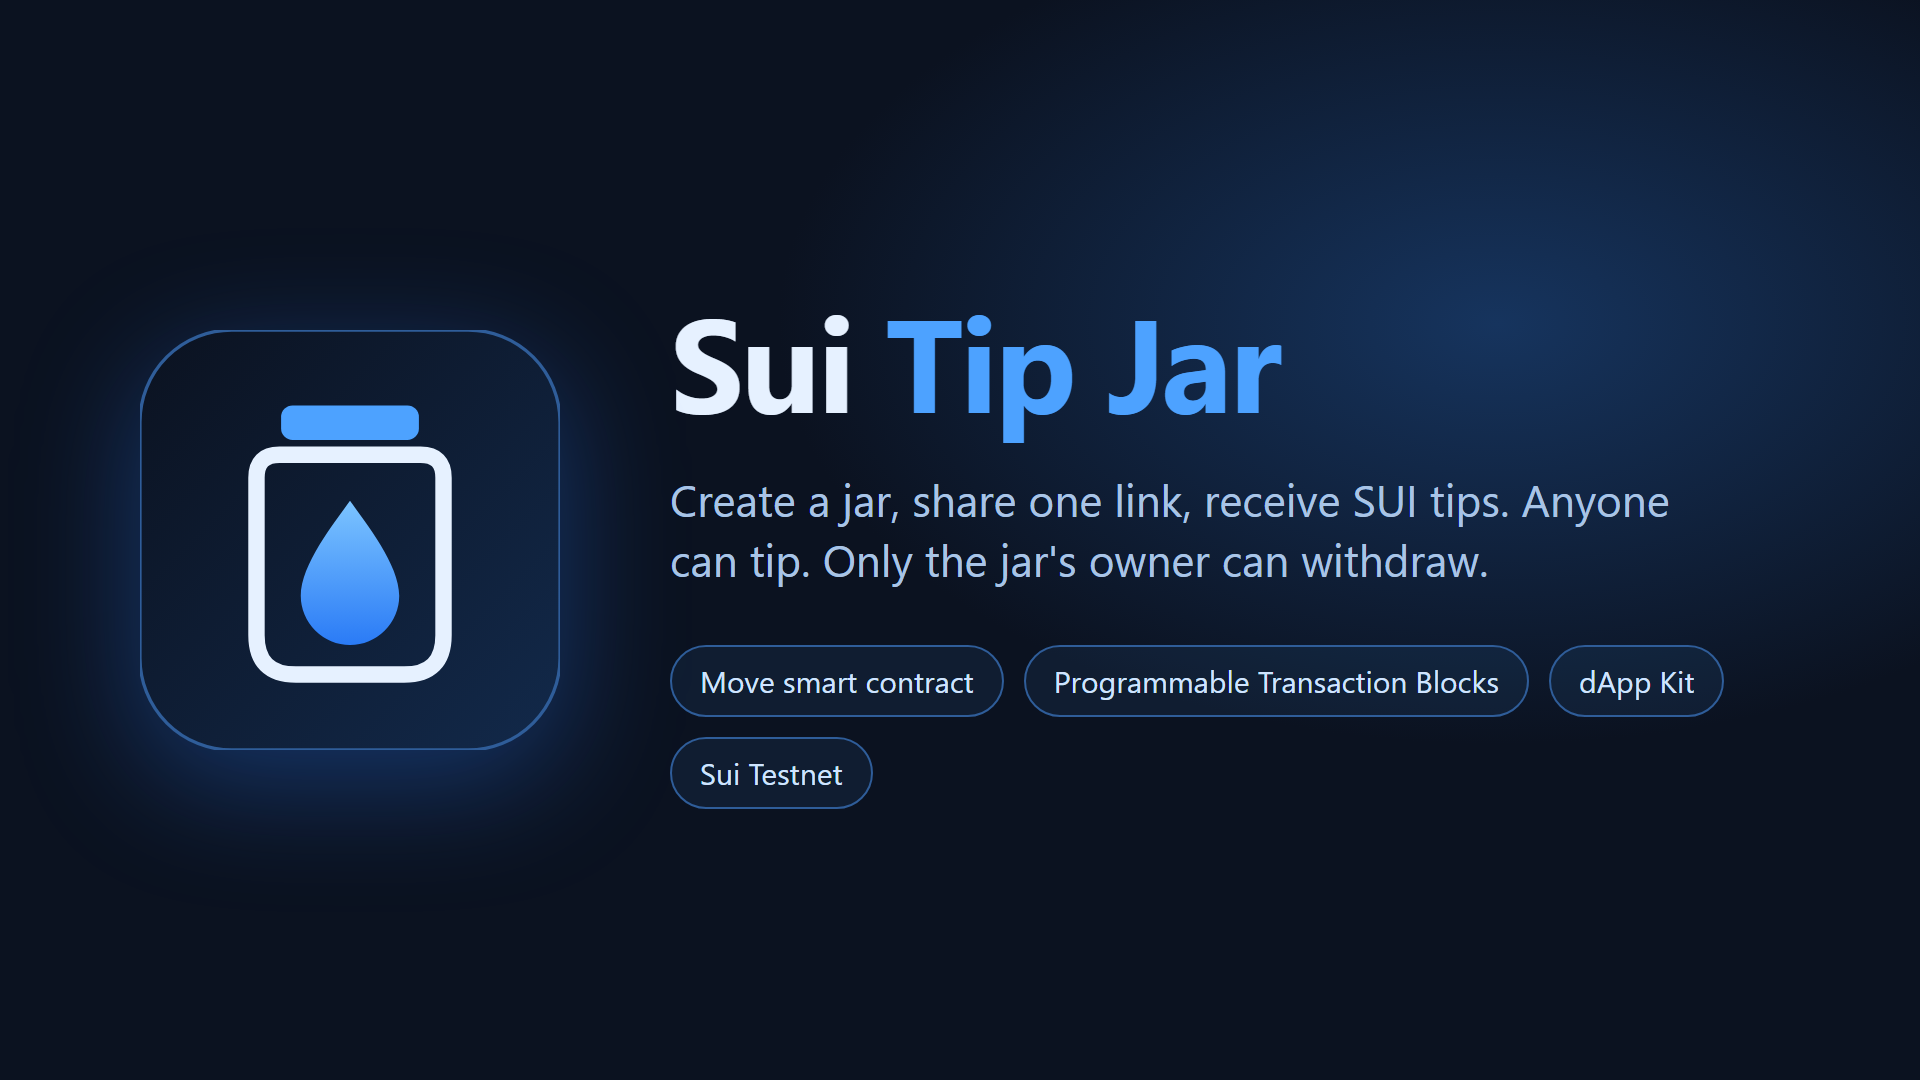
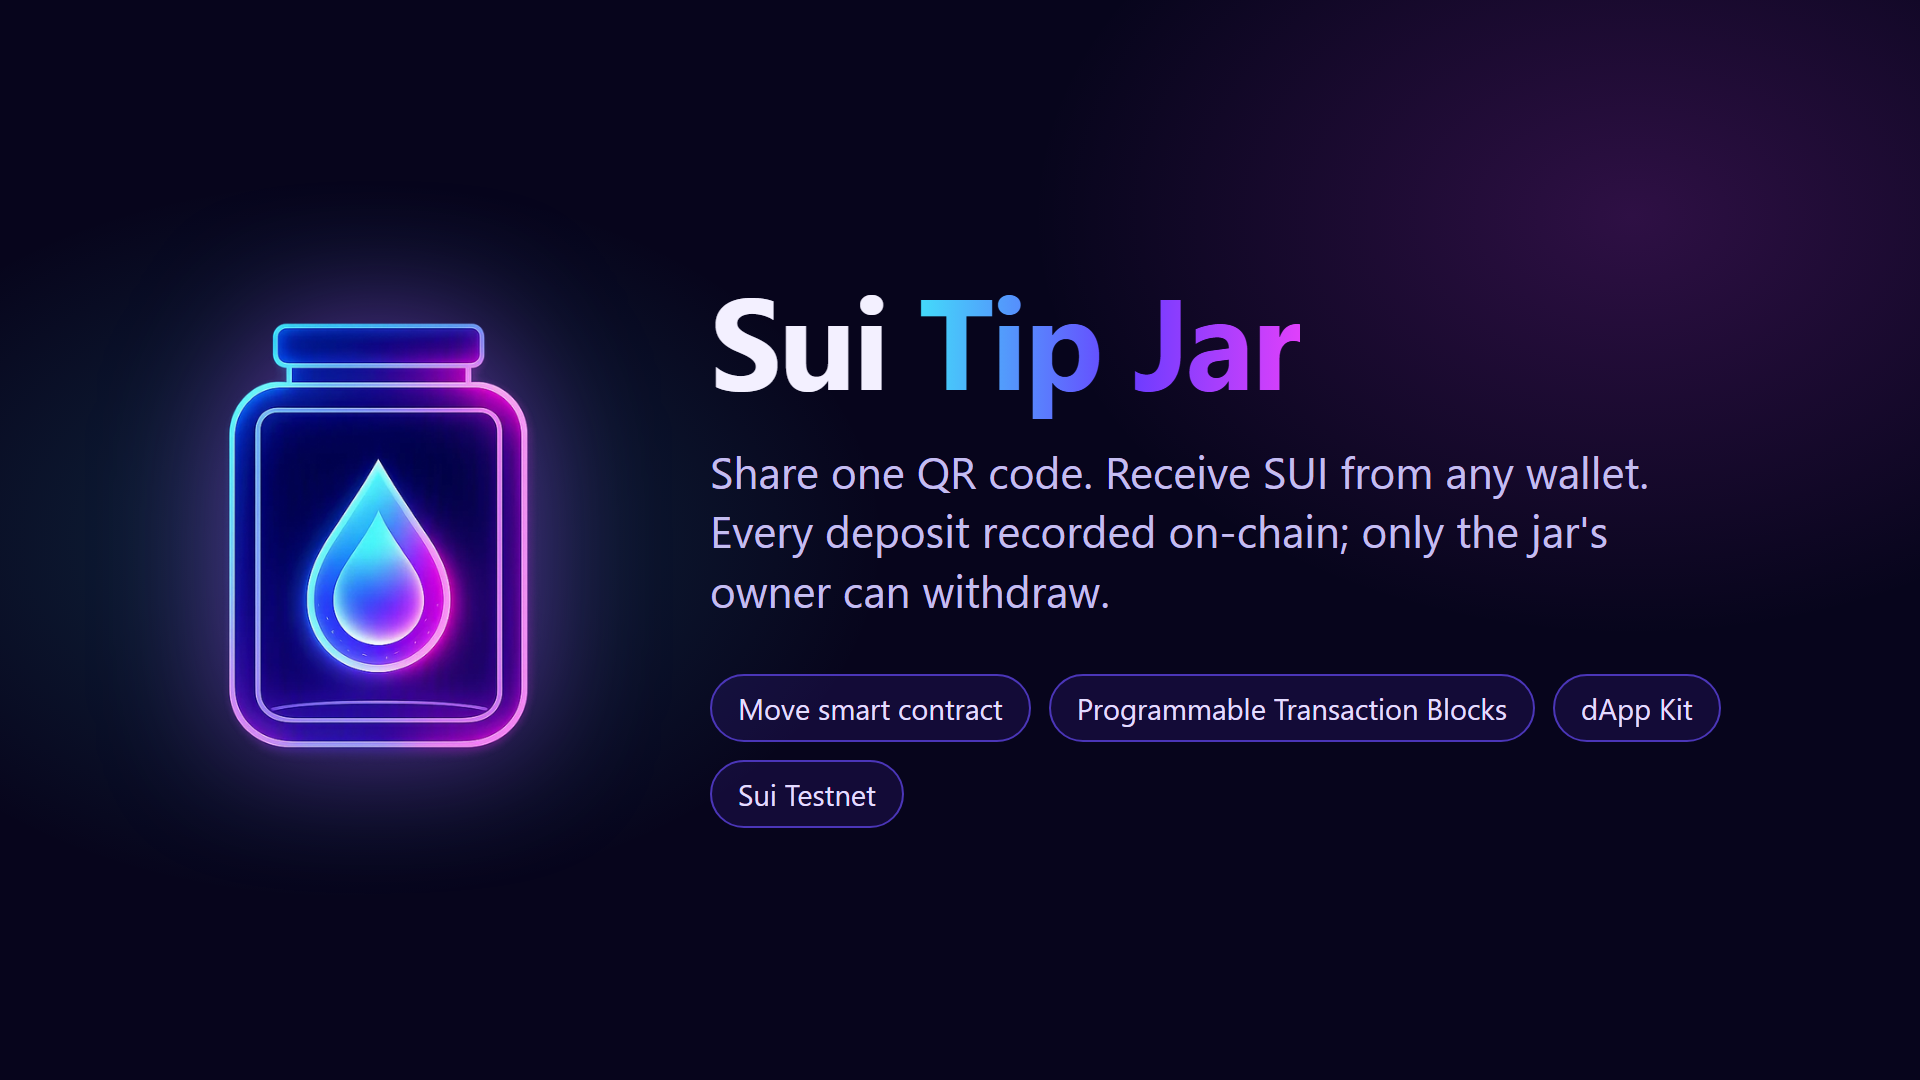
Update submission images and README for the new theme

Changed region(s): [[0.3438, 0.0917, 0.9688, 0.7639], [0.0625, 0.2444, 0.3125, 0.7028]]

diff --git a/README.md b/README.md
@@ -14,7 +14,7 @@ This is a monorepo: the smart contract and the web app live side by side.
 | --- | --- |
 | `move/tip_jar/sources/tip_jar.move` | Move contract (shared `TipJar` and owned `OwnerCap`) |
 | `move/tip_jar/tests/tip_jar_tests.move` | `test_scenario` tests, including the wrong-cap attack |
-| `frontend/` | React + dApp Kit web app (owner dashboard, tip page with QR code, all-jars view) |
+| `frontend/` | React + dApp Kit web app (owner dashboard, tip page with QR code and activity) |
 | `.github/workflows/deploy.yml` | Builds `frontend/` and deploys it to GitHub Pages on every push |
 | `submission/` | Logo, cover image and screenshots |
 
@@ -52,11 +52,10 @@ There is no backend server. The browser talks to Sui directly: it writes through
 4. **Direct deposits are counted, then collected.** A plain wallet send never runs contract code, so the app reads it from the chain. Depending on the wallet, it's either in the jar's address balance or a `Coin` object sent to the jar. The owner's card shows it as *waiting to collect*. **Collect deposits** calls `collect_address_deposits` / `collect_coin_deposit`, which move it into the jar and add it to `total_tipped` and `total_direct`.
 5. **Withdraw all** runs one PTB: it collects any waiting deposits, then `withdraw_all()`, then sends the payout to the owner.
 6. **Jar activity** is a public record of every app tip, direct deposit, collection and withdrawal. It merges contract events with the chain's transaction history for the jar's address.
-7. **All jars** (`/?view=all`) lists every jar, with how much each one holds including deposits not yet collected. It finds jars through their `JarCreated` events.
 
-| Tip page | All jars |
+| Home | Tip page (mobile) |
 | --- | --- |
-| ![Tip page](submission/screenshot-tip-page.png) | ![All jars](submission/screenshot-all-jars.png) |
+| ![Home](submission/screenshot-home.png) | ![Tip page on mobile](submission/screenshot-tip-page-mobile.png) |
 
 ## Run the web app
 
